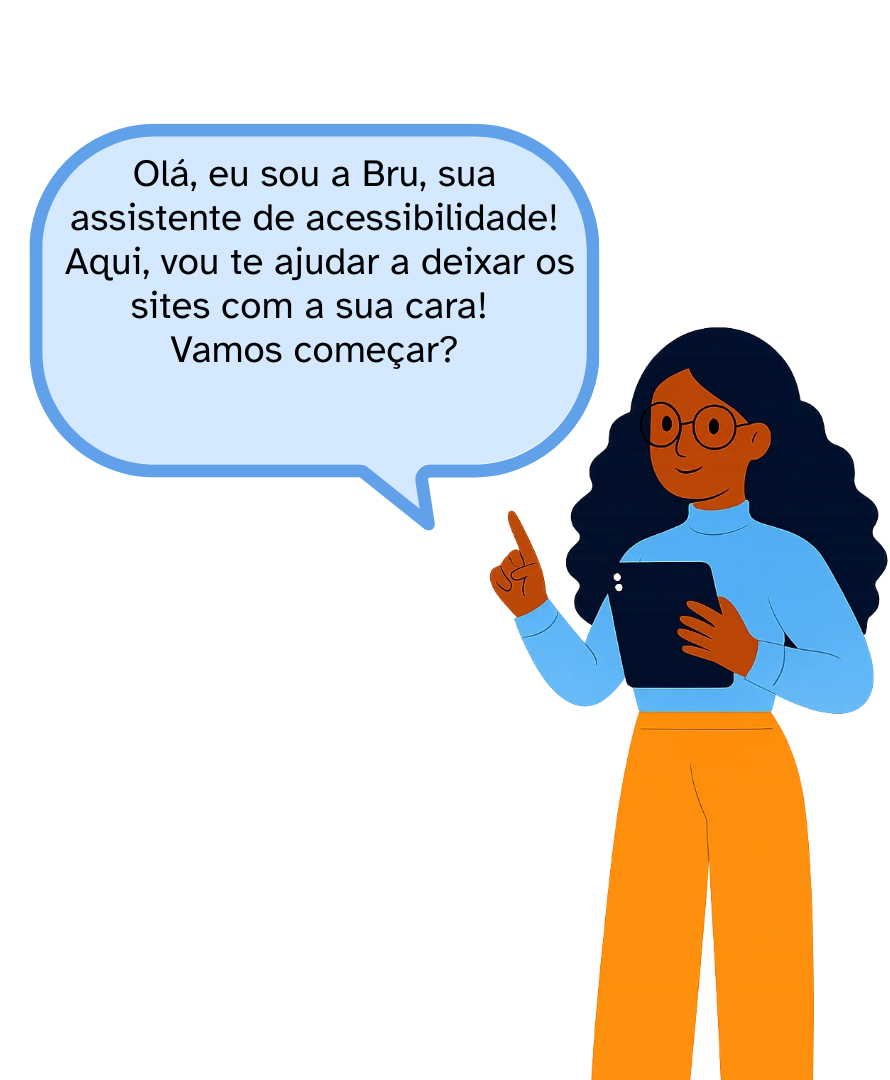
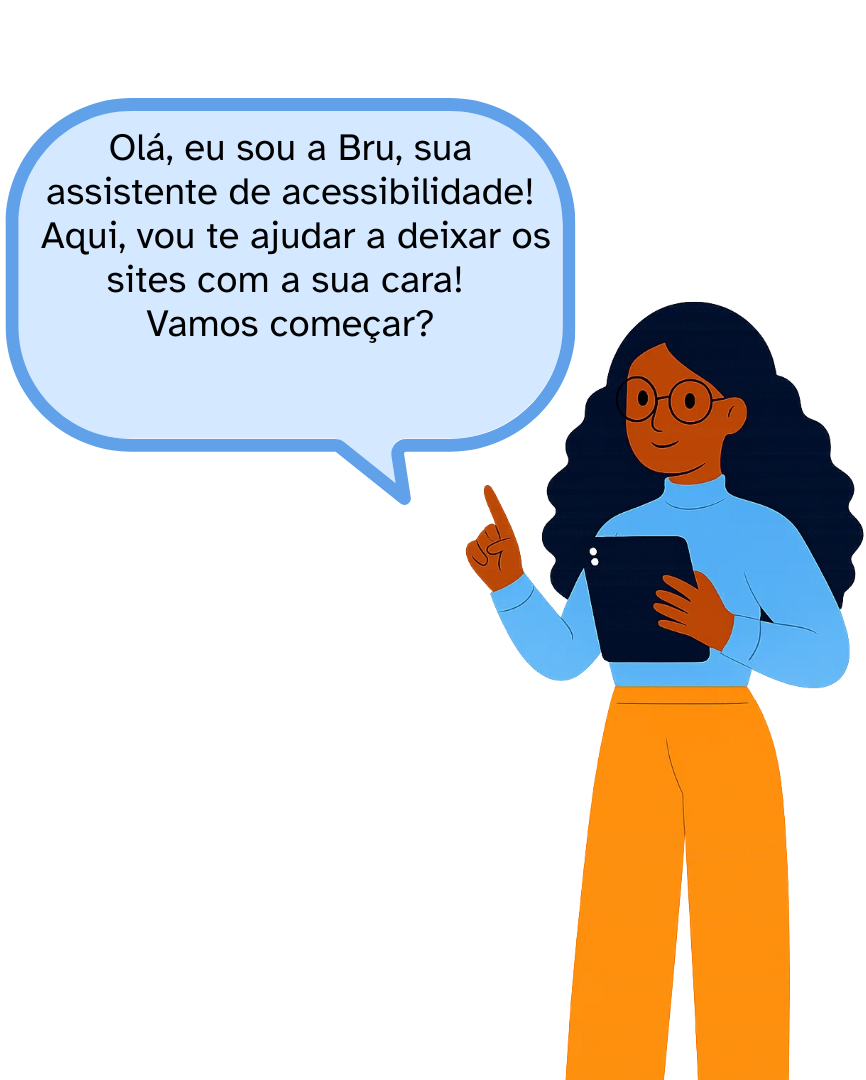
update Bru

Changed region(s): [[0.0, 0.0917, 0.9977, 1.0], [0.7483, 0.7333, 0.8106, 1.0], [0.9042, 0.9472, 0.9353, 1.0]]

diff --git a/index/index.css b/index/index.css
@@ -9,68 +9,14 @@ body {
     right: 0;
     bottom: 0;
     display: flex;
-    width: 40%;
+    width: 35%;
     height: 95%;
-    background-color: tomato;
-}
-
-
-/* 
-.img-guia {
-    position:fixed;
-    bottom: 0;
-    right: 0px;
-    width: 20%;
-    height: auto;
     pointer-events: none;
     z-index: 999999;
-}*/
-
-.balaoBru {
     background-image: url("https://raw.githubusercontent.com/marianacoronado19/Pluma-Acessibilidade/main/images/assistente/bru_nova.png");
-
-    width: 100%;
-    height: 100%;
     background-size: contain;
     background-repeat: no-repeat;
-    left: 30%;
-
-    /* display: flex;
-    z-index: 999998;
-    justify-content: center;
-    align-items: center;
-
-    flex-wrap: wrap;
-    justify-content: center;  */
 }
-
-    /* position: fixed;
-    width: 30%;
-    min-height: 160px;
-    background-repeat: no-repeat;
-    background-size: contain;
-    background-position: left bottom;
-    display: flex;
-    flex-direction: column;
-    align-items: center;
-    justify-content: center;
-    padding: 18px 20px;
-    pointer-events: auto; /* allow clicks on the button/text */
-
-
-/* .texto-balao {
-    /* position: fixed;
-    pointer-events: none;
-    z-index: 999999;
-    font-family: "Atkinson Hyperlegible", sans-serif;
-    font-weight: 700;
-    color: #333;
-    font-size: 16px;
-    width: 19.9%;
-    text-align: center; */
-    /* right: 14.6%;
-    top: 7.8% 
-} */
 
 .botaoConfig {
     /* position: fixed; */
@@ -86,54 +32,3 @@ body {
     border: none;
     border-radius: 4px;; */
 }
-/* .div-fala {
-    width: 100%;
-    text-align: center;
-}
-
-.fala-balao {
-    font-family: "Atkinson Hyperlegible", sans-serif;
-    font-weight: 700;
-    color: #333;
-    font-size: 16px;
-    margin: 0;
-    z-index: 10;
-}
-
-.config-button {
-    margin-top: 12px;
-    padding: 6px 12px;
-    cursor: pointer;
-    font-size: 14px;
-    font-family: "Atkinson Hyperlegible", sans-serif;
-    background-color: #4f89cb;
-    z-index: 10;
-    color: #000;
-    border: none;
-    border-radius: 4px;
-} */
-
-
-
-
-/* .config-button {
-    font-family: "Atkinson Hyperlegible", sans-serif;
-    position: absolute;
-    margin:auto;
-    transform: translateX(-50%);
-    padding: 8px 16px;
-    font-size: 16px;
-    background-color: #4f89cb;
-    color: #00042e;
-    border: none;
-    border-radius: 13px;
-    cursor: pointer;
-    bottom: 50px
-}
-
-.guia-pluma {
-    position: fixed;
-    height: 400px;
-    bottom: 0;
-    right: 0;
-} */

diff --git a/content.js b/content.js
@@ -2,28 +2,11 @@ const container = document.createElement("div");
 container.classList.add("div-guia");
 document.body.appendChild(container);
 
-// const botaoConfig = document.createElement("button");
-// botaoConfig.innerText = "Configurar";
-// botaoConfig.classList.add("botao-config");
-// balao.appendChild(botaoConfig);
+const botaoConfig = document.createElement("button");
+botaoConfig.innerText = "Configurar";
+botaoConfig.classList.add("botao-config");
+balao.appendChild(botaoConfig);
 
-
-
-const balaoBru = document.createElement("div");
-// balao.src = chrome.runtime.getURL("images/assistente/balao_fala.png");
-balaoBru.classList.add("balaoBru");
-container.appendChild(balaoBru);
-
-// const textoBalao = document.createElement("div");
-// textoBalao.innerText = "Olá! Eu sou a Bru, sua assistente de acessibilidade. Estou aqui para ajudar você a personalizar sua experiência de navegação na web. Vamos começar?";
-// textoBalao.classList.add("texto-balao");
-// balao.appendChild(textoBalao);
-
-
-// const guia = document.createElement("img");
-// guia.src = chrome.runtime.getURL("images/assistente/guia_bru.png");
-// guia.classList.add("img-guia");
-// container.appendChild(guia);
 
 // botaoConfig.addEventListener("click", () => {
 //   alert("Aqui você pode configurar as opções de acessibilidade.");
